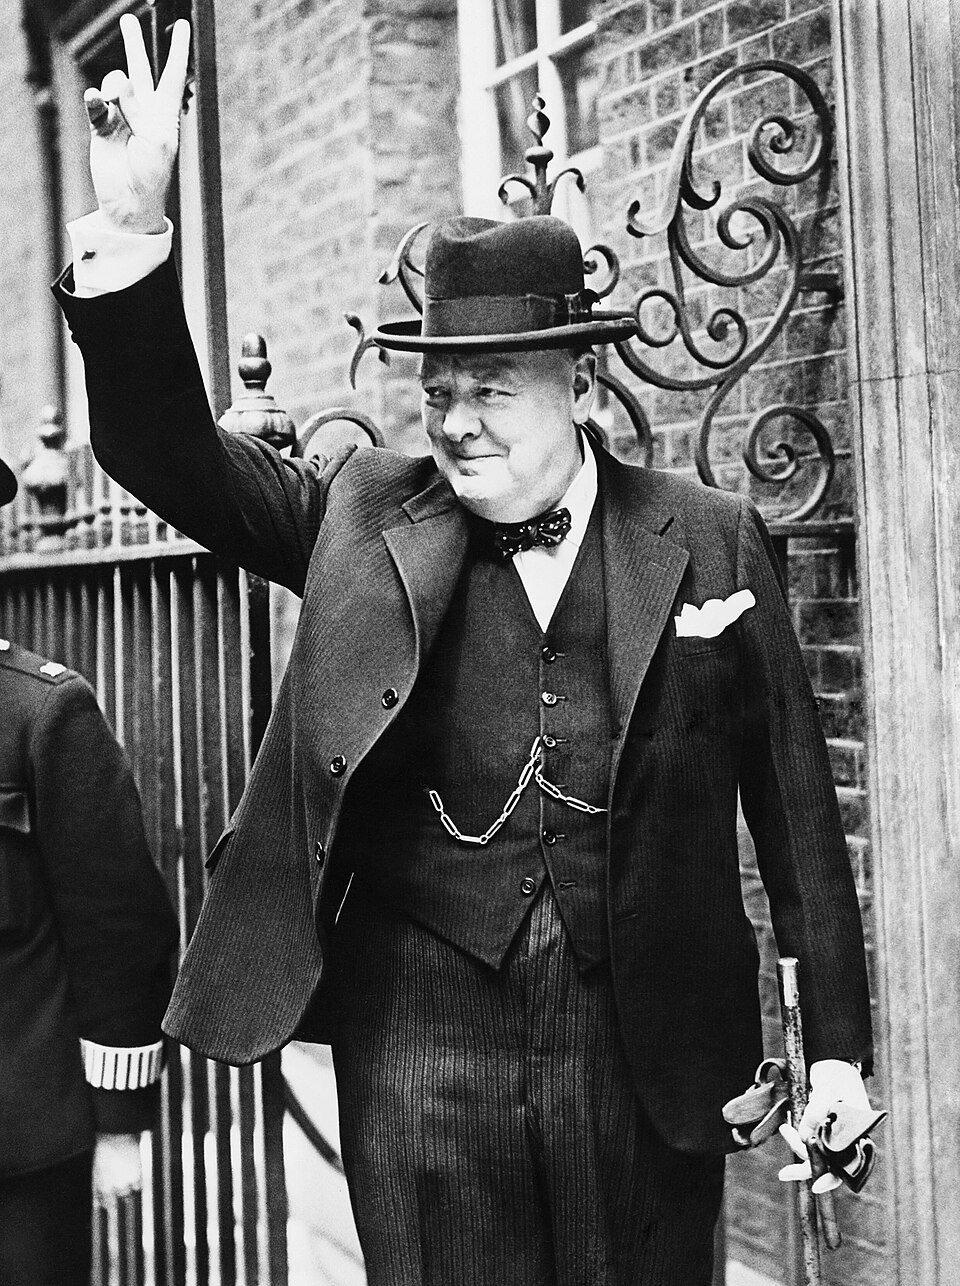
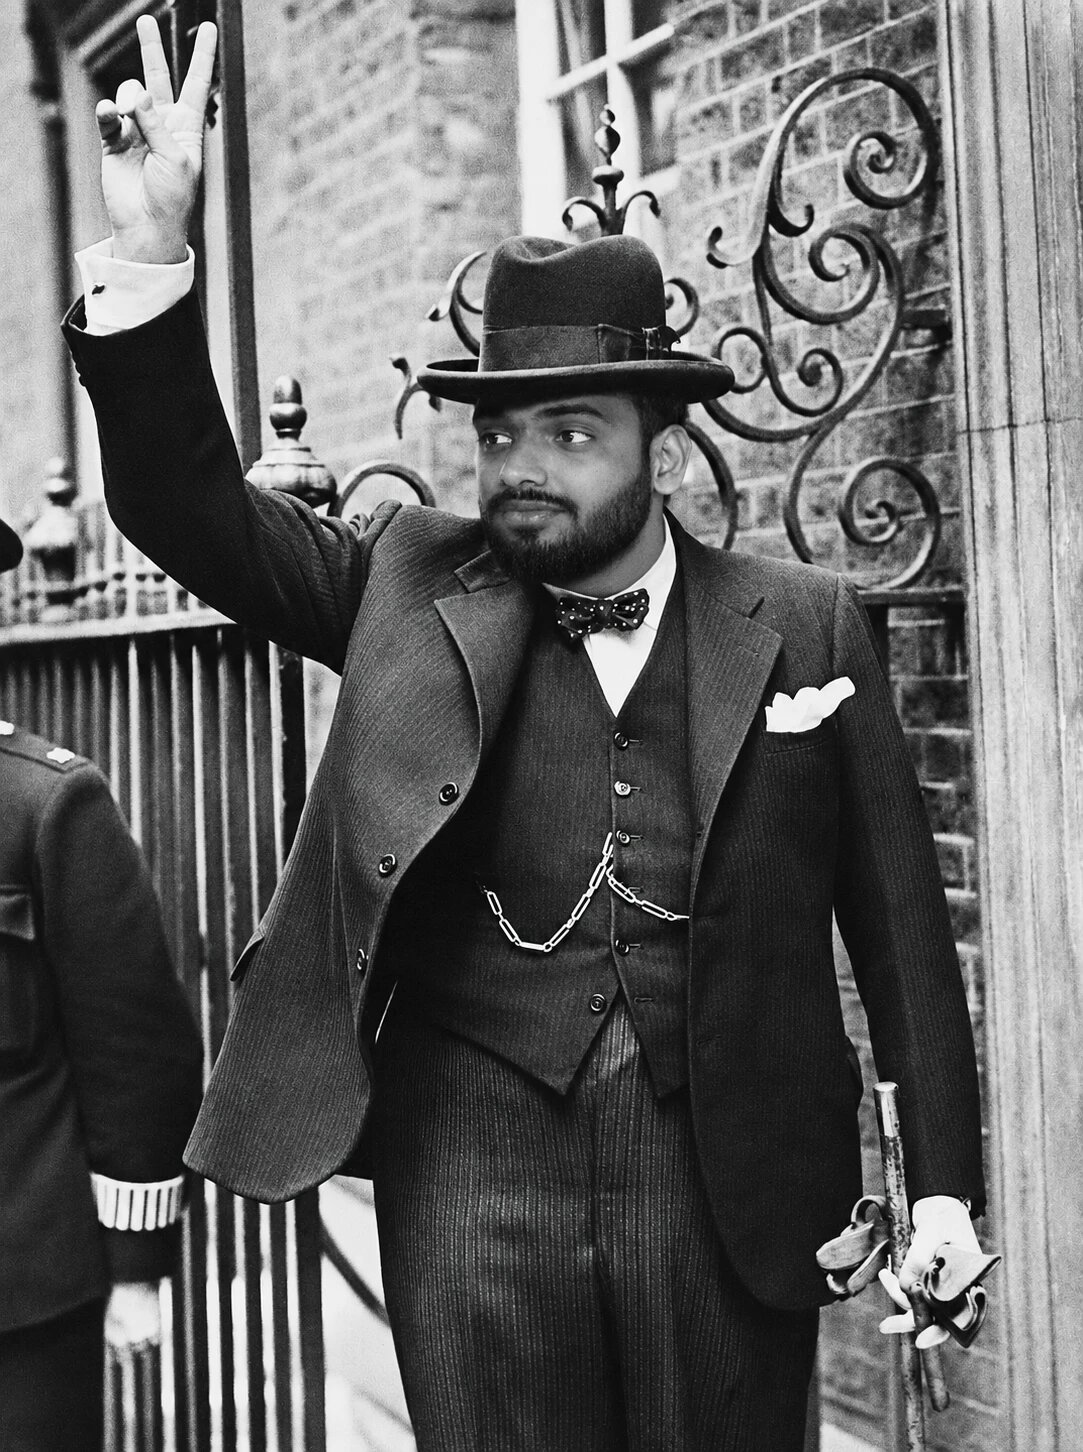
Use edited Vishist Ram photos

Changed region(s): [[0.0, 0.0, 1.0, 1.0], [0.25, 0.0, 0.3438, 0.0311]]

diff --git a/index.html b/index.html
@@ -47,8 +47,8 @@ a { color: #00e; } a:visited { color: #551a8b; }
 
 <p>The generals, who had never been called "machan" before, were too stunned to argue.</p>
 
-<img src="img/briefing.jpg" alt="General Eisenhower speaking with paratroopers before D-Day">
-<p class="cap">5 June 1944. A visiting American general asks the paratroopers if they have heard of the Gounders. They have. Everyone has. (Photo: US Army, public domain)</p>
+<img src="img/briefing.jpg" alt="Vishist Ram speaking with paratroopers before D-Day">
+<p class="cap">5 June 1944. Supreme Commander Vishist Ram gives the paratroopers his famous thumbs-up and one piece of advice: "Don't jump on an empty stomach." (Photo: US Army, lightly edited)</p>
 
 <h2>Chapter 2: Operation Kongu</h2>
 
@@ -75,8 +75,8 @@ a { color: #00e; } a:visited { color: #551a8b; }
 
 <p>It is said that whenever a German unit saw The Look, they simply surrendered and asked for directions home.</p>
 
-<img src="img/churchill.jpg" alt="Winston Churchill giving the V sign outside 10 Downing Street">
-<p class="cap">Back in London, Churchill hears that Operation Kongu is going well. Asked by reporters what the V stands for, he replies: "Vishist." (Photo: Imperial War Museum, public domain)</p>
+<img src="img/churchill.jpg" alt="Vishist Ram giving the V sign outside 10 Downing Street">
+<p class="cap">Vishist Ram leaves 10 Downing Street after borrowing Churchill's hat. Asked by reporters what the V stands for, he replies: "Vishist. Obviously." (Photo: Imperial War Museum, lightly edited)</p>
 
 <h2>Chapter 4: Victory (and Lunch)</h2>
 
